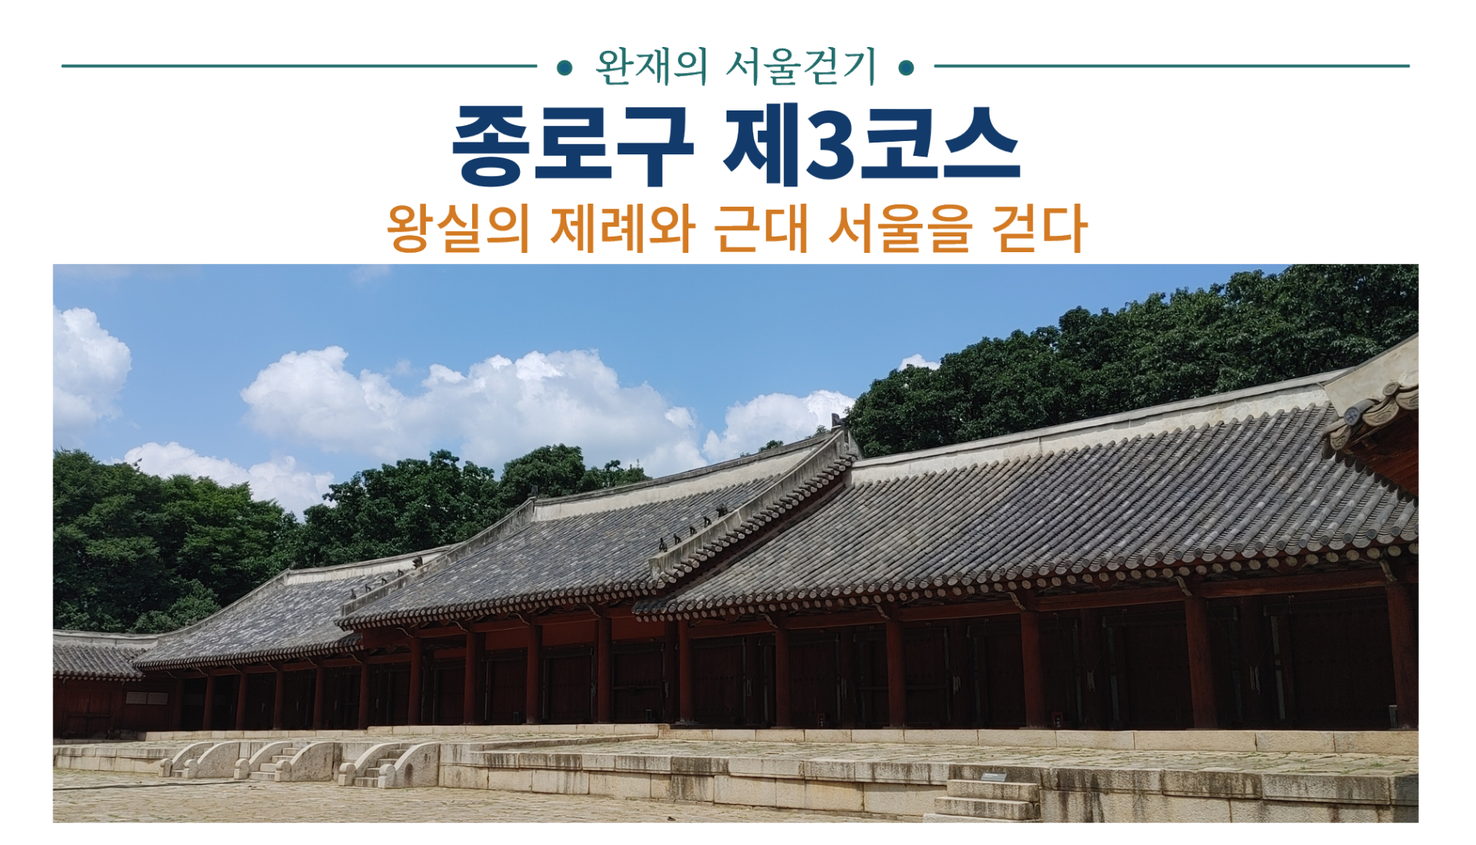
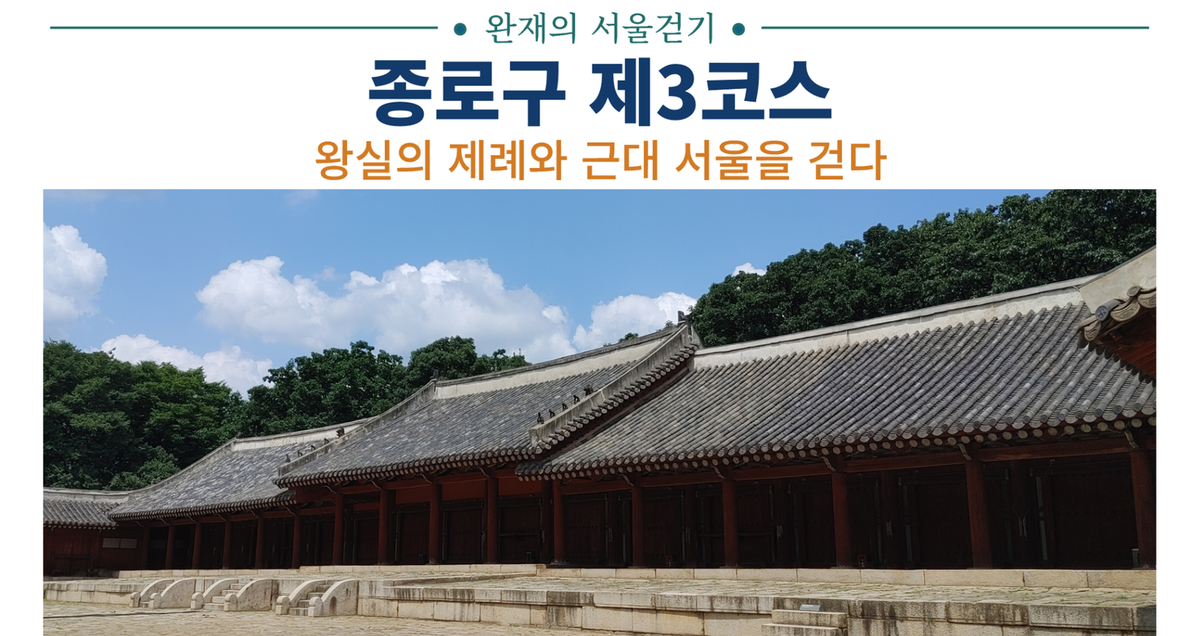
last

diff --git a/jongno/course03/index.html b/jongno/course03/index.html
@@ -9,17 +9,17 @@
         <meta property="og:title" content="완재의 서울걷기 | 종로구 제3코스">
         <meta property="og:description" content="왕실의 제례와 근대 서울을 걷다">
         <meta property="og:url" content="https://wanjae-walk.github.io/wanjae-seoulwalk/jongno/course03/">
-        <meta property="og:image" content="https://wanjae-walk.github.io/wanjae-seoulwalk/jongno/leaflet/jongno_course02_cover.png">
-        <meta property="og:image:secure_url" content="https://wanjae-walk.github.io/wanjae-seoulwalk/jongno/leaflet/jongno_course02_cover.png">
+        <meta property="og:image" content="https://wanjae-walk.github.io/wanjae-seoulwalk/jongno/leaflet/jongno_course03_cover.png">
+        <meta property="og:image:secure_url" content="https://wanjae-walk.github.io/wanjae-seoulwalk/jongno/leaflet/jongno_course03_cover.png">
         <meta property="og:image:type" content="image/png">
-        <meta property="og:image:width" content="1200">
-        <meta property="og:image:height" content="900">
+        <meta property="og:image:width" content="1203">
+        <meta property="og:image:height" content="636">
         <meta property="og:site_name" content="완재의 서울걷기">
         <meta property="og:locale" content="ko_KR">
         <meta name="twitter:card" content="summary_large_image">
         <meta name="twitter:title" content="완재의 서울걷기 | 종로구 제3코스">
         <meta name="twitter:description" content="왕실의 제례와 근대 서울을 걷다">
-        <meta name="twitter:image" content="https://wanjae-walk.github.io/wanjae-seoulwalk/jongno/leaflet/jongno_course02_cover.png">
+        <meta name="twitter:image" content="https://wanjae-walk.github.io/wanjae-seoulwalk/jongno/leaflet/jongno_course03_cover.png">
         <meta name="mobile-web-app-capable" content="yes">
         <meta name="apple-mobile-web-app-capable" content="yes">
         <link rel="stylesheet" href="css/leaflet.css">
